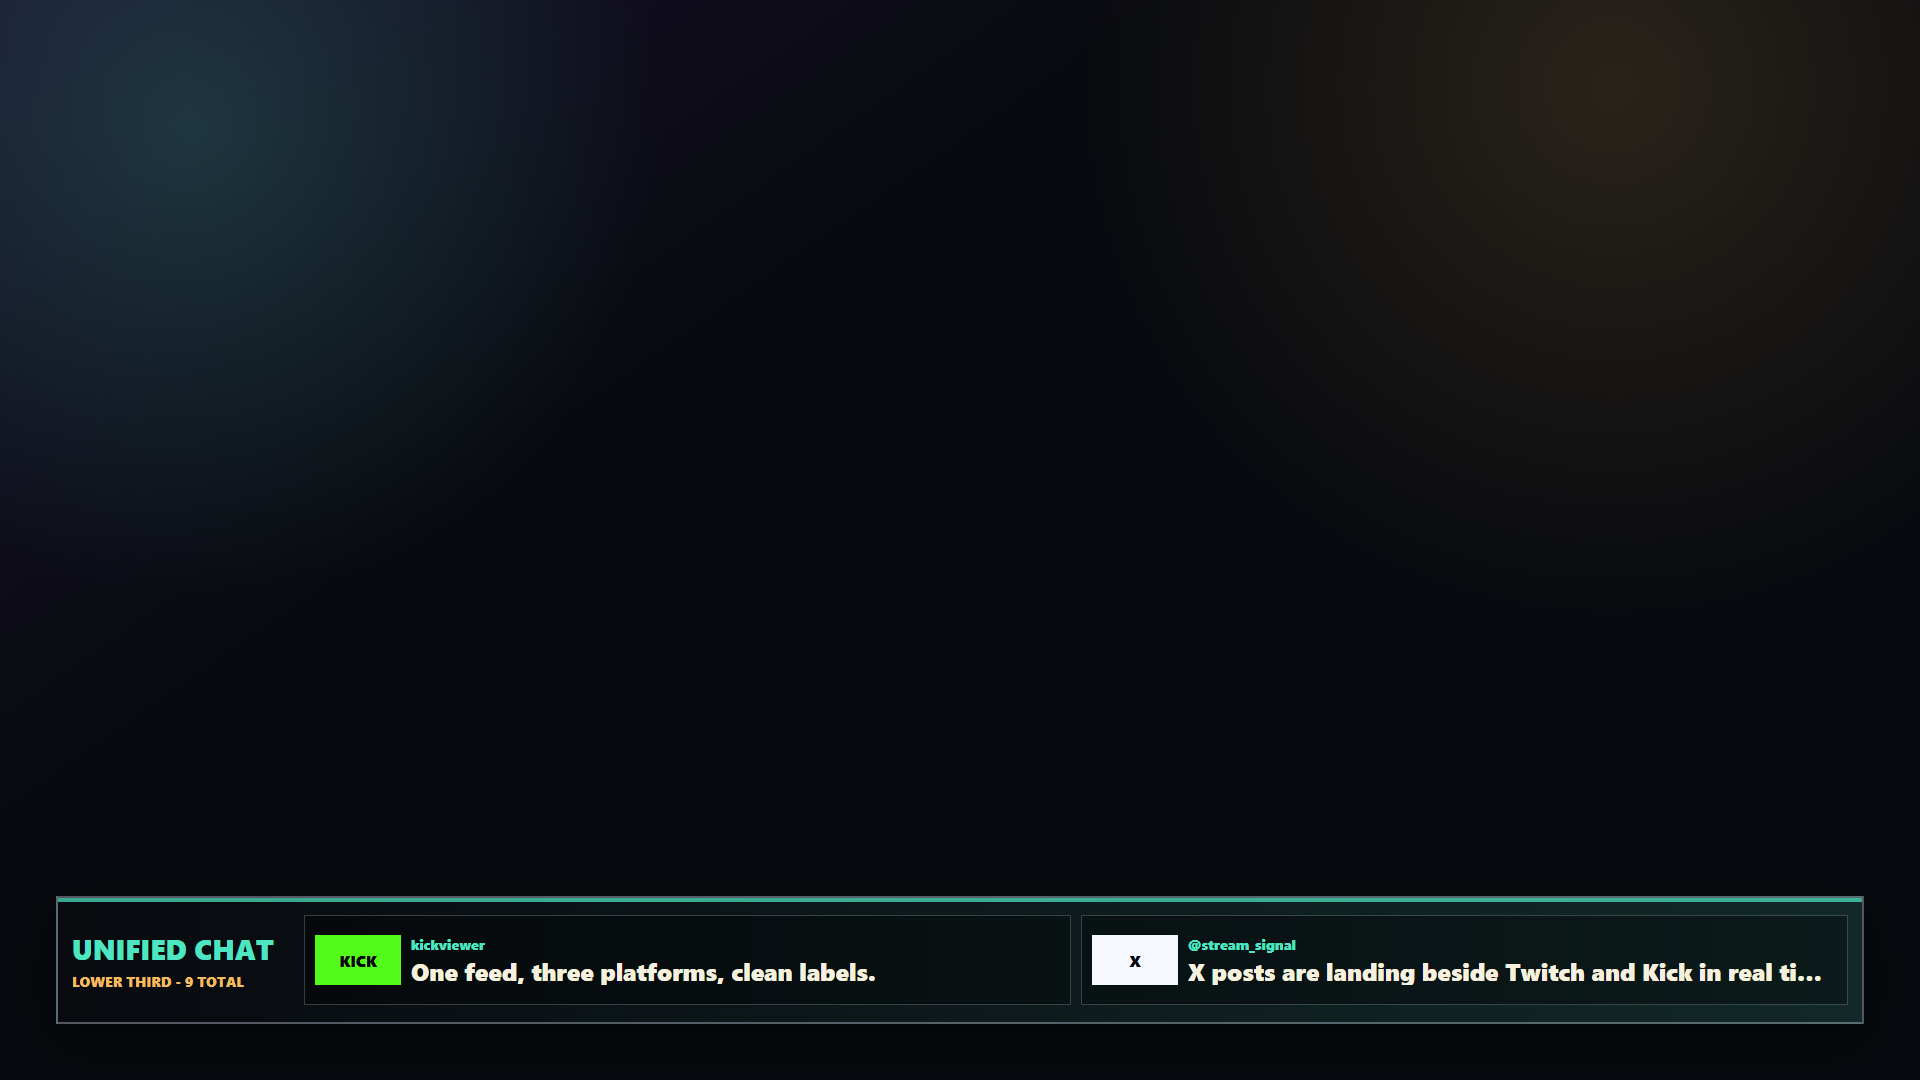
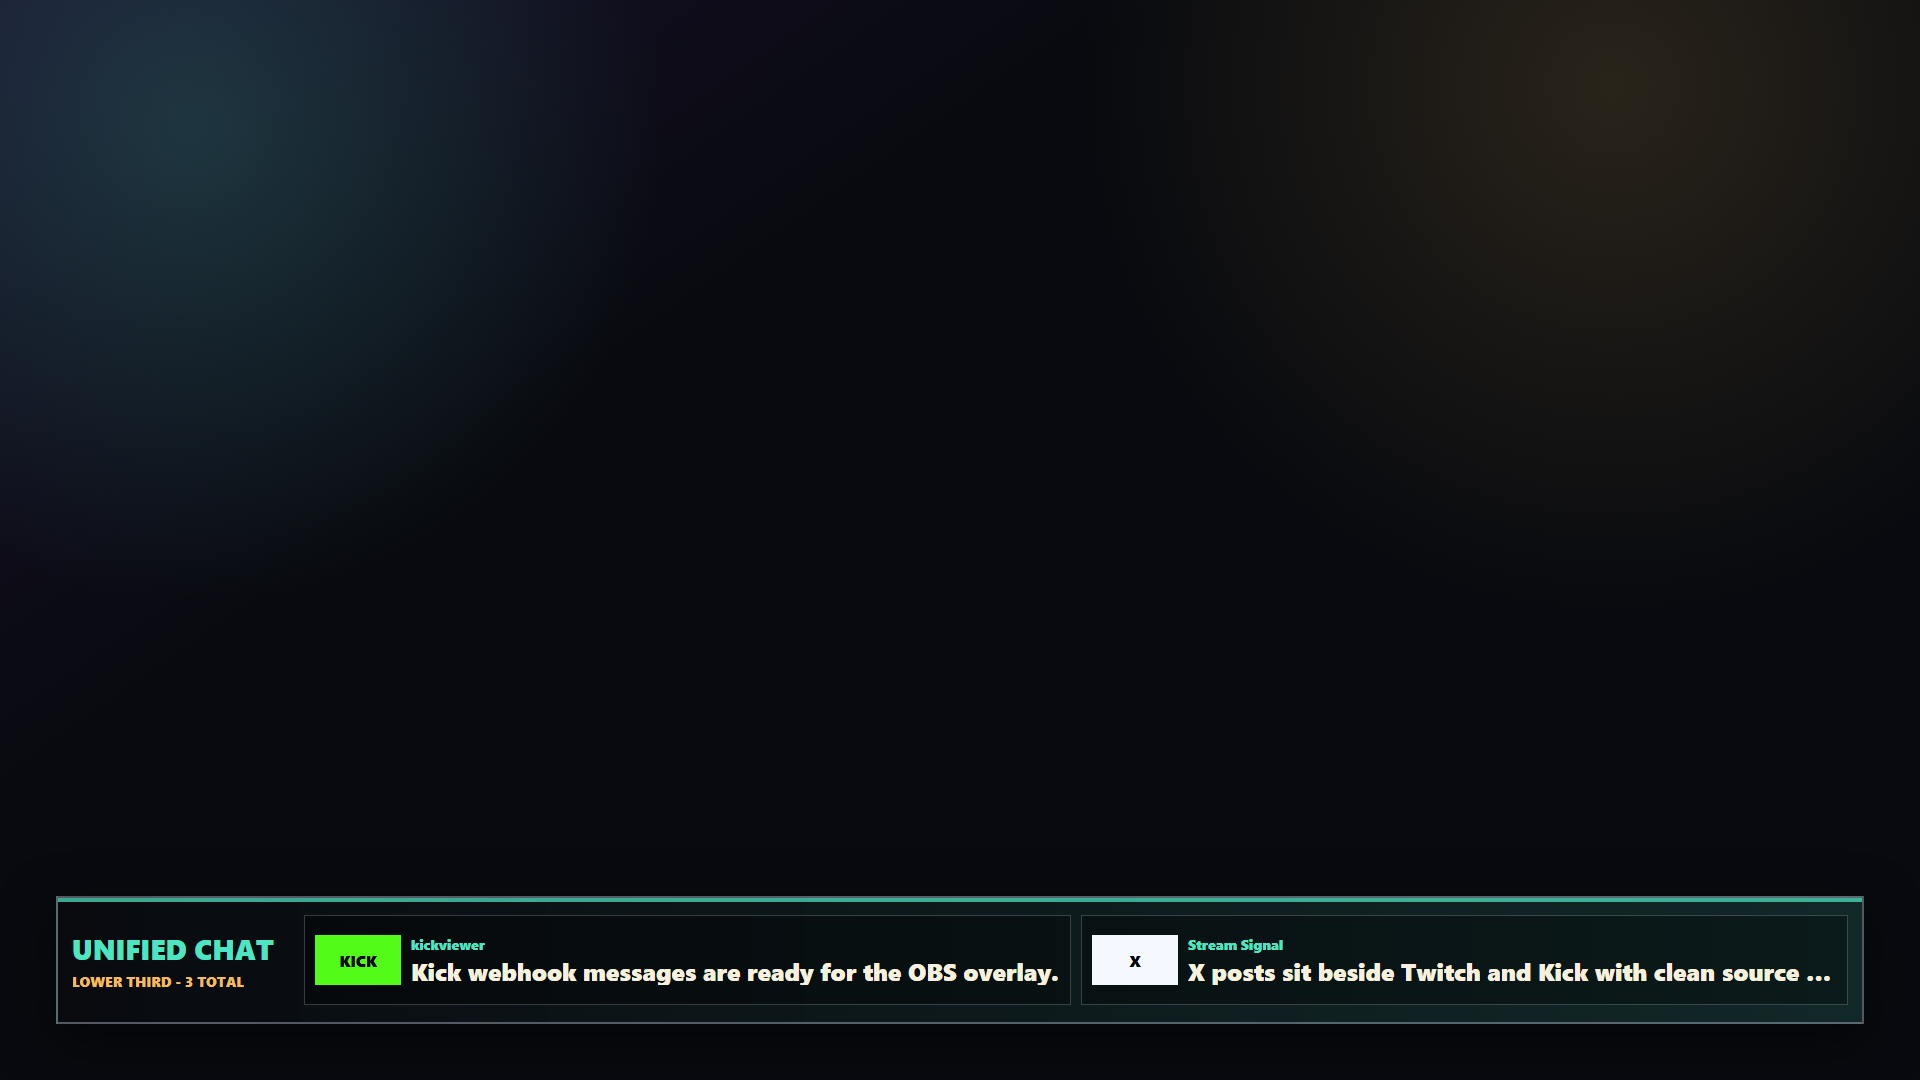
Simplify the user flow: watchers are the product, everything else folds away
- X mention polling starts automatically once a watched handle exists;
  no Auto X click in the main flow (button remains under Advanced)
- Manual source controls (Twitch join, X query, Kick webhook URL)
  collapse into an Advanced details panel
- Demo section relabeled Try It with a no-setup note; Clear Feed works
  locally for view-only visitors instead of erroring
- Submission brief, README (Chat Watchers + optional X bridge sections,
  fresh screenshots), and MarketBubble guide rewritten around the
  zero-login watcher flow; the X live bridge is an explicit power
  feature outside the main path

Changed region(s): [[0.625, 0.8556, 0.9375, 0.9167], [0.2188, 0.8861, 0.5625, 0.9167]]

diff --git a/public/index.html b/public/index.html
@@ -68,31 +68,8 @@
             </section>
 
             <section class="panel-section">
-              <h2>Sources</h2>
-              <label>
-                Twitch channel
-                <input id="twitchChannel" name="twitchChannel" autocomplete="off" spellcheck="false" placeholder="streamer" />
-              </label>
-              <button id="connectTwitch" type="button">Connect Twitch</button>
-
-              <label>
-                X query
-                <input id="xQuery" name="xQuery" autocomplete="off" spellcheck="false" placeholder="@streamer OR #hashtag" />
-              </label>
-              <div class="split-buttons">
-                <button id="syncX" type="button">Sync X</button>
-                <button id="autoX" type="button" aria-pressed="false">Auto X</button>
-              </div>
-
-              <label>
-                Kick webhook
-                <input id="kickWebhook" name="kickWebhook" readonly />
-              </label>
-              <button id="copyKickWebhook" type="button">Copy Webhook</button>
-            </section>
-
-            <section class="panel-section">
-              <h2>Demo</h2>
+              <h2>Try It</h2>
+              <p class="note">No setup needed: pulse fake messages through the feed and overlays.</p>
               <div class="split-buttons">
                 <button id="demoPulse" type="button" aria-pressed="false">Demo Pulse</button>
                 <button id="demoAll" type="button">Seed All</button>
@@ -104,6 +81,30 @@
               </div>
               <button id="clearFeed" class="danger" type="button">Clear Feed</button>
             </section>
+
+            <details class="panel-section advanced">
+              <summary>Advanced</summary>
+              <label>
+                Twitch channel (manual)
+                <input id="twitchChannel" name="twitchChannel" autocomplete="off" spellcheck="false" placeholder="streamer" />
+              </label>
+              <button id="connectTwitch" type="button">Connect Twitch</button>
+
+              <label>
+                X search query
+                <input id="xQuery" name="xQuery" autocomplete="off" spellcheck="false" placeholder="@streamer OR #hashtag" />
+              </label>
+              <div class="split-buttons">
+                <button id="syncX" type="button">Sync X</button>
+                <button id="autoX" type="button" aria-pressed="false">Auto X</button>
+              </div>
+
+              <label>
+                Kick webhook URL
+                <input id="kickWebhook" name="kickWebhook" readonly />
+              </label>
+              <button id="copyKickWebhook" type="button">Copy Webhook</button>
+            </details>
           </aside>
 
           <section class="panel feed-panel" aria-label="Unified live feed">
@@ -132,7 +133,7 @@
             </div>
             <div id="emptyState" class="state-block empty" hidden>
               <strong>No messages yet</strong>
-              <span>Connect a source, configure Kick webhooks, or seed a demo.</span>
+              <span>Add a chat watcher on the left, or press Demo Pulse to see the feed in action.</span>
             </div>
             <ol id="feedList" class="feed-list" aria-live="polite"></ol>
           </section>

diff --git a/public/app.js b/public/app.js
@@ -71,6 +71,8 @@ const state = {
   connectionRules: [],
   localHosts: readLocalHosts(),
   joinedTwitchChannels: [],
+  serverConfig: null,
+  xAutoStarted: false,
 };
 
 const origin = window.location.origin;
@@ -179,6 +181,7 @@ async function refreshState() {
     const response = await fetch("/api/messages", { cache: "no-store" });
     if (!response.ok) throw new Error(`messages returned ${response.status}`);
     const payload = await response.json();
+    if (payload.config) state.serverConfig = payload.config;
     mergeMessages(payload.messages || []);
     updateStats();
     state.loaded = true;
@@ -503,6 +506,12 @@ function autoWireSources() {
     const query = `(${xHandles.map((handle) => `to:${handle} OR @${handle}`).join(" OR ")}) -is:retweet`;
     if (els.xQuery && els.xQuery.value !== query) setValue(els.xQuery, query);
   }
+
+  // X polling starts itself once a watched handle exists; no clicks needed.
+  if (xHandles.length && state.serverConfig?.xEnabled && !state.xTimer && !state.xAutoStarted) {
+    state.xAutoStarted = true;
+    toggleAutoX();
+  }
 }
 
 function handleAuthReturn() {
@@ -684,6 +693,13 @@ async function clearFeed() {
     const token = els.adminToken?.value?.trim();
     if (token) headers.authorization = `Bearer ${token}`;
     const response = await fetch("/api/messages", { method: "DELETE", headers });
+    if (response.status === 401) {
+      state.messages = [];
+      updateStats();
+      render();
+      showError("Cleared locally. Enter the admin token to clear the shared feed.");
+      return;
+    }
     if (!response.ok) throw new Error(`clear returned ${response.status}`);
     state.messages = [];
     updateStats();

diff --git a/public/app.css b/public/app.css
@@ -392,6 +392,20 @@ h1 {
   overflow-wrap: anywhere;
 }
 
+details.advanced summary {
+  cursor: pointer;
+  font-size: 12px;
+  font-weight: 900;
+  letter-spacing: 0.08em;
+  text-transform: uppercase;
+  color: var(--dim);
+  margin-bottom: 4px;
+}
+
+details.advanced[open] summary {
+  margin-bottom: 10px;
+}
+
 .host-list {
   display: grid;
   gap: 7px;

diff --git a/README.md b/README.md
@@ -61,6 +61,24 @@ Run a setup check at any time:
 npm run doctor
 ```
 
+## Chat Watchers
+
+The core flow. Add a streamer under **Chat Watchers** — name, color, and
+any of their channels (X handle, Twitch channel, Kick channel) — and their
+public chats merge into the feed tagged with their color. The streamer never
+logs in or connects anything:
+
+- **Kick**: the server subscribes to `chat.message.sent` webhooks for the
+  channel using app-token credentials. Fully automatic from then on.
+- **Twitch**: the dashboard joins the channel over Twitch's official IRC
+  WebSocket (all watched channels share one socket).
+- **X**: replies and mentions of the handle start polling automatically via
+  the official v2 recent-search API.
+
+Each watcher row shows X / Twitch / Kick toggle chips; muting a platform is
+enforced server-side. Multiple watchers make this a multi-host show tool:
+every message carries both a platform label and a colored host tag.
+
 ## OBS Setup
 
 1. Add a Browser Source.
@@ -86,6 +104,8 @@ X_BEARER_TOKEN=optional-x-api-bearer-token
 UPSTASH_REDIS_REST_URL=optional-upstash-url
 UPSTASH_REDIS_REST_TOKEN=optional-upstash-token
 KICK_PUBLIC_KEY=optional-kick-public-key
+KICK_CLIENT_ID=optional-enables-kick-watcher-auto-subscribe
+KICK_CLIENT_SECRET=optional-enables-kick-watcher-auto-subscribe
 ```
 
 Run with Node:
@@ -114,6 +134,17 @@ Then set the Kick app webhook URL to:
 https://your-tunnel.trycloudflare.com/api/kick/webhook
 ```
 
+## X Live Chat Bridge (optional)
+
+X exposes no API for the chat inside a live broadcast. For shows that want
+it anyway, `npm run x-live` runs a set-and-forget bridge on one PC: it opens
+a real browser, watches the configured X account, attaches to each broadcast
+as it goes live, and relays chat into the feed with the host's tag. Configure
+it in `.local/x-live.config` (see `.env.example` for the `X_LIVE_*` keys),
+log into X once in the window it opens, and optionally drop a shortcut to
+`scripts\x-live-forever.bat` into `shell:startup` so it survives reboots and
+crashes. This is a power feature — the normal flow above never needs it.
+
 ## API
 
 ```text
@@ -121,6 +152,10 @@ GET    /health
 GET    /api/config
 GET    /api/messages
 GET    /api/events
+GET    /api/connections?room=...
+POST   /api/hosts
+POST   /api/hosts/toggle
+DELETE /api/connections?room=&profile=&platform=
 POST   /api/ingest
 POST   /api/messages
 DELETE /api/messages

diff --git a/SUBMISSION.md b/SUBMISSION.md
@@ -8,13 +8,34 @@
 
 ## Demo Flow
 
-1. Open the standalone dashboard.
-2. Click `Seed All` or `Demo Pulse`.
-3. Show Twitch, X, and Kick messages in one feed with visible source labels.
-4. Open `/overlay` and show the OBS-ready lower third.
-5. Open `/overlay?layout=rail&position=right&messages=5` and show the vertical chat box for broadcast layouts with an existing lower-third.
-6. Show BITCOINAQUA Sproto Stream consuming the standalone overlay URL.
+1. Open the standalone dashboard and click `Demo Pulse` — instant merged
+   Twitch + X + Kick feed with source labels, no setup or login.
+2. Show the headline feature, **Chat Watchers**: add a streamer by name,
+   color, and channels (X handle / Twitch channel / Kick channel). No OAuth,
+   no login from the streamer — Kick chat auto-subscribes via webhooks,
+   Twitch joins live IRC, X mentions start polling automatically. Each
+   message arrives tagged with the watcher's color, so multi-host shows can
+   merge several streamers' chats into one feed and still tell them apart.
+3. Toggle a watcher's platform chip off and on — muting is server-side, not
+   cosmetic.
+4. Open `/overlay` and show the OBS-ready lower third; then
+   `/overlay?layout=rail&position=right&messages=5` for the vertical rail.
+5. Show BITCOINAQUA Sproto Stream consuming the standalone overlay URL.
 
 ## Anything Else We Should Know
 
-Unified Stream Chat is a reusable production-ready streamer utility, not a one-off overlay. It supports Twitch IRC WebSocket, X API recent search with auto-polling, Kick chat webhooks, source labels, server-sent event updates, optional admin auth, optional Upstash persistence, Docker hosting, a live smoke-test command, and transparent OBS overlays in lower-third, vertical rail, and compact box formats. BITCOINAQUA Sproto Stream is included as a proof integration that consumes the same standalone overlay URL.
+Unified Stream Chat is a reusable production-grade streamer utility, not a
+one-off overlay. Chat watchers aggregate any streamer's public chats with
+zero action from the streamer: Kick `chat.message.sent` webhooks are
+auto-subscribed per channel via app-token credentials, Twitch rides the
+official IRC WebSocket (multi-channel), and X mentions poll the official
+v2 recent-search API. Messages are normalized into one feed with source
+labels and per-host colored identity tags, served to dashboard and
+transparent OBS overlays (lower third, vertical rail, compact box) over
+server-sent events. Production hardening is real: all writes require an
+admin token, Kick webhook signatures are RSA-verified, tokens are encrypted
+at rest, and state persists in Upstash Redis. For shows that want the chat
+inside an X live broadcast (which X exposes through no API), the repo ships
+an optional set-and-forget browser bridge that attaches to each broadcast
+automatically. The live deployment runs the real MarketBubble show setup;
+demo mode works for anyone view-only.

diff --git a/docs/MARKETBUBBLE.md b/docs/MARKETBUBBLE.md
@@ -35,22 +35,10 @@ platform on or off (dim + struck-through = off).
 - **Twitch**: keep one dashboard tab open anywhere — that tab relays Twitch
   chat for all watched channels. (A laptop running OBS with the dashboard
   open in a browser tab is enough.)
-- **X mentions**: click **Auto X** once. It pulls posts that reply to or
-  mention your hosts every 25 seconds. Note: X does not allow any app to
-  read the chat inside an X live broadcast through its API — mentions and
-  replies are all X offers officially.
-- **X live chat** (optional, runs on the operator's PC): the repo includes a
-  bridge that opens the live broadcast in a real browser and relays its chat
-  into the feed. It is set-and-forget: start it once and leave it running
-  minimized — it watches the show's X account, attaches automatically every
-  time a broadcast starts, and goes back to waiting when it ends. Nothing to
-  do on show day.
-  - Start manually: `npm run x-live`
-  - Start with Windows: put a shortcut to `scripts\x-live-forever.bat` in
-    `shell:startup` (Win+R, type `shell:startup`). It also auto-restarts the
-    bridge if it ever crashes.
-  - First run only: log into X in the window it opens; the session persists.
-  - The account it watches and the host tag live in `.local/x-live.config`.
+- **X**: automatic. Posts that reply to or mention your hosts are pulled
+  every 25 seconds while the dashboard is open. (X does not allow any app to
+  read the chat inside an X live broadcast — replies and mentions are what X
+  offers. Viewers replying to the stream announcement post all show up.)
 - The OBS overlay updates by itself. Add it as a Browser Source at
   1920x1080; pick lower-third, rail, or compact via the URLs in the
   dashboard's OBS panel.
@@ -67,9 +55,19 @@ platform on or off (dim + struck-through = off).
   channel name is the exact kick.com slug.
 - **No Twitch messages**: is a dashboard tab open? The Twitch status card
   should show the joined channel names.
-- **No X messages**: X only shows replies/mentions of the hosts, and only
-  while Auto X is on. Check the X query box contains the hosts' handles.
+- **No X messages**: X only shows replies/mentions of the hosts. Check that
+  a host has an X handle set (green X chip on their watcher row).
 - **"unauthorized" errors**: the Admin token field is empty or wrong.
+
+## Optional power feature: true X live chat
+
+X's live-broadcast chat is not available to any app through X's official
+APIs. For shows that want it anyway, the repo ships a bridge that runs on
+one PC, watches the show's X account in a real browser, and relays the live
+chat into the feed automatically. This is a technical setup (Node.js + a
+one-time X login) — it is not needed for the normal flow above. See the
+"X live chat bridge" section of the repo README if you want it; @bitcoinaqua
+can set it up for you.
 
 ## Support
 